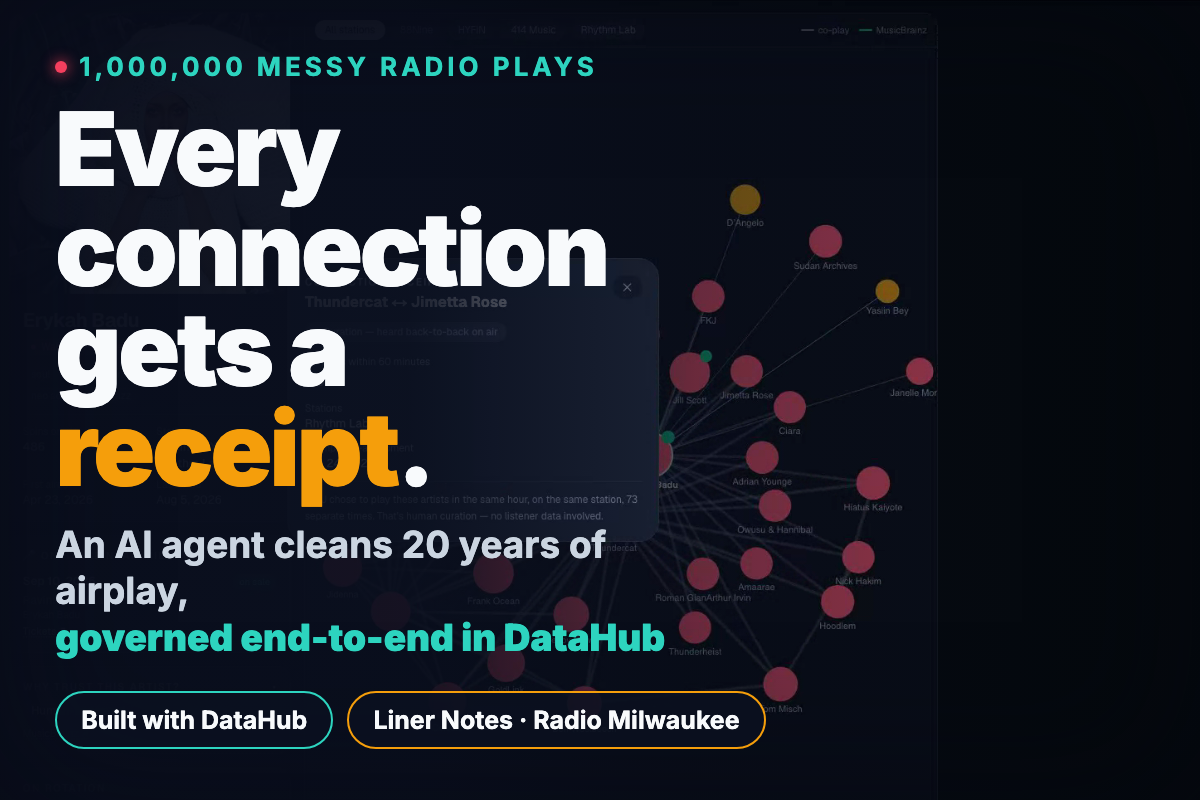
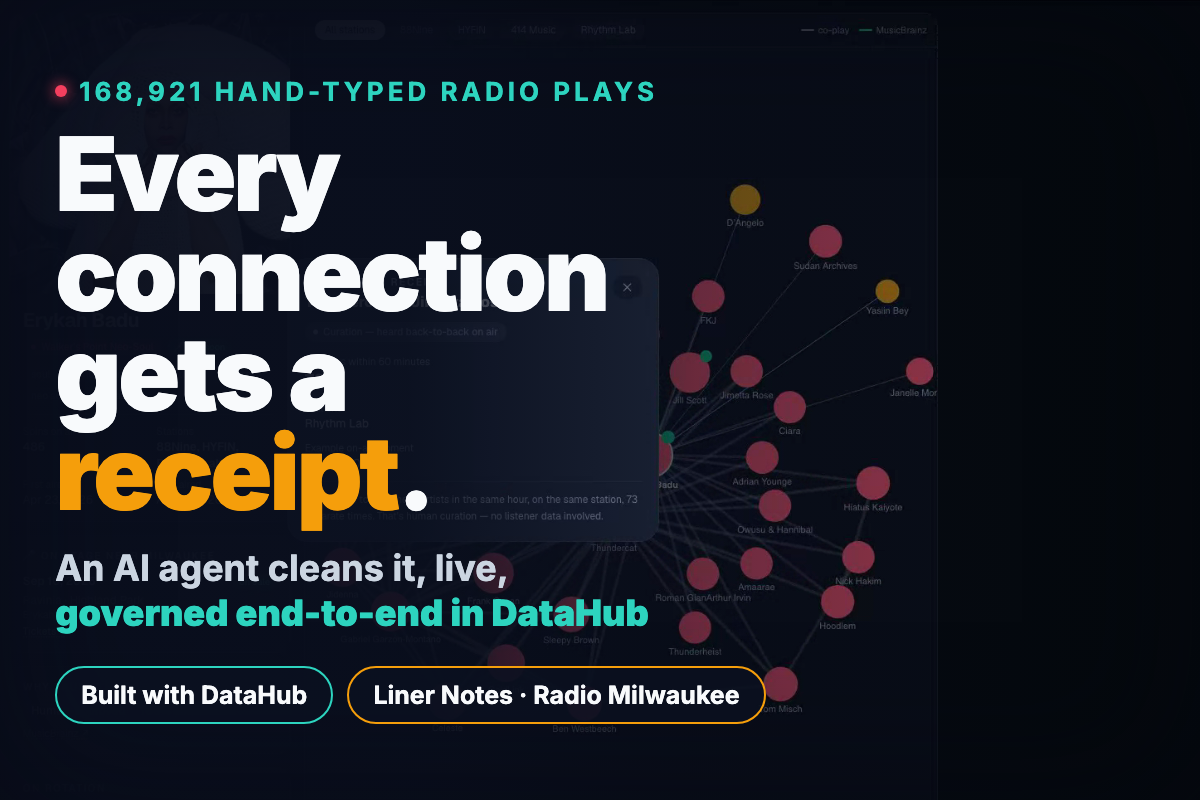
fix: honest numbers everywhere — 168,921 plays / 15 weeks, not '1M / 20 years' (MOO-474)

Changed region(s): [[0.0308, 0.0625, 0.6475, 0.9375]]

diff --git a/docs/submission/devpost.md b/docs/submission/devpost.md
@@ -9,14 +9,15 @@
 
 ## Elevator pitch (200 chars)
 
-An AI steward agent cleans 20 years of hand-typed radio playout logs, governed
+An AI steward agent cleans Radio Milwaukee's hand-typed playout logs, governed
 end-to-end in DataHub — and turns them into a music discovery graph where every
 connection shows its receipt.
 
 ## Inspiration
 
-Radio Milwaukee's four stations have logged roughly a million song plays, with
-artist names typed live by DJs: typos, aliases, "feat." strings, duplicates.
+Radio Milwaukee's four stations log every song a DJ plays — 168,921 plays in
+fifteen weeks on the current playout platform, artist names typed live by DJs:
+typos, aliases, "feat." strings, duplicates.
 "Erykah Badu", "Badu, Erykah", and "Erykah Badu feat. Common" are three
 different artists to the database. Nobody can answer "what have we actually
 played?" — and every station, podcast network, and music library has a version

diff --git a/README.md b/README.md
@@ -2,8 +2,9 @@
 
 **Apache 2.0** · Built for **Build with DataHub: The Agent Hackathon** (Track 1 — Agents That Do Real Work) · **Live demo: [liner-notes-pi.vercel.app](https://liner-notes-pi.vercel.app)**
 
-Radio Milwaukee's four stations have logged about a million song plays, with
-artist names typed by hand: typos, aliases, "feat." strings, duplicates.
+Radio Milwaukee's four stations log every song a DJ plays — 168,921 plays in
+the fifteen weeks since the current playout platform went live, artist names
+typed by hand: typos, aliases, "feat." strings, duplicates.
 Liner Notes turns that messy playout history into an explorable,
 DataHub-governed artist-influence knowledge graph — cleaned by an autonomous
 steward agent that shows a receipt for every claim it makes.
